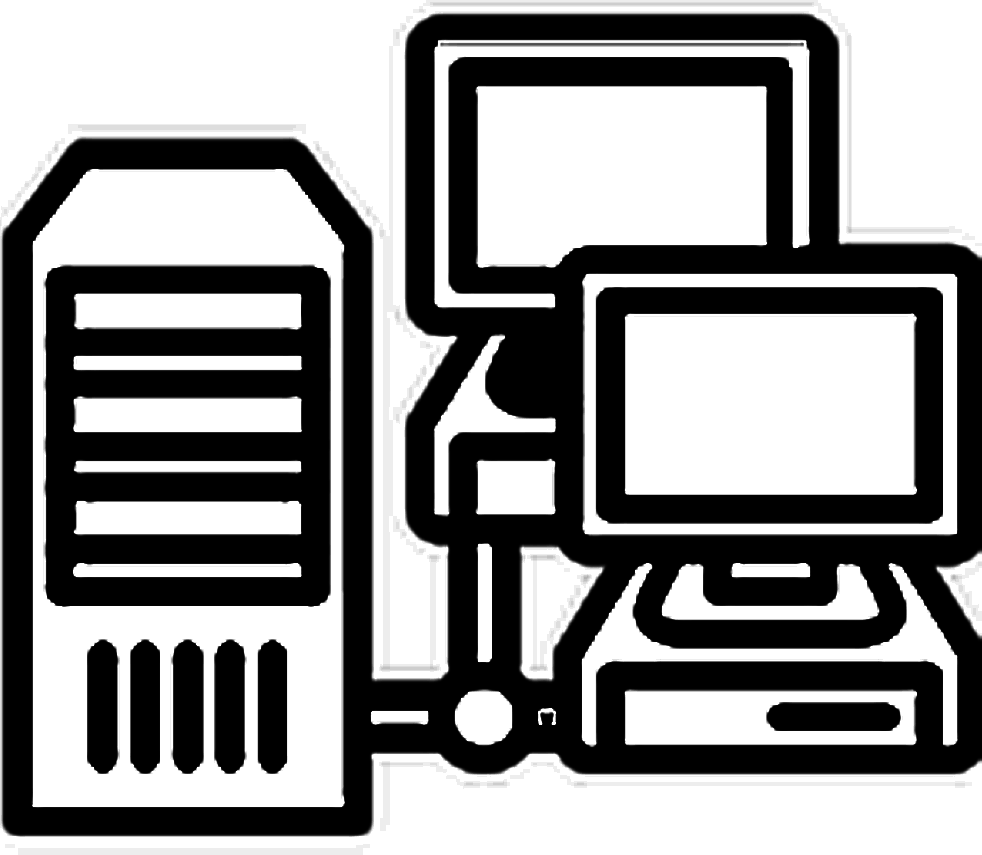
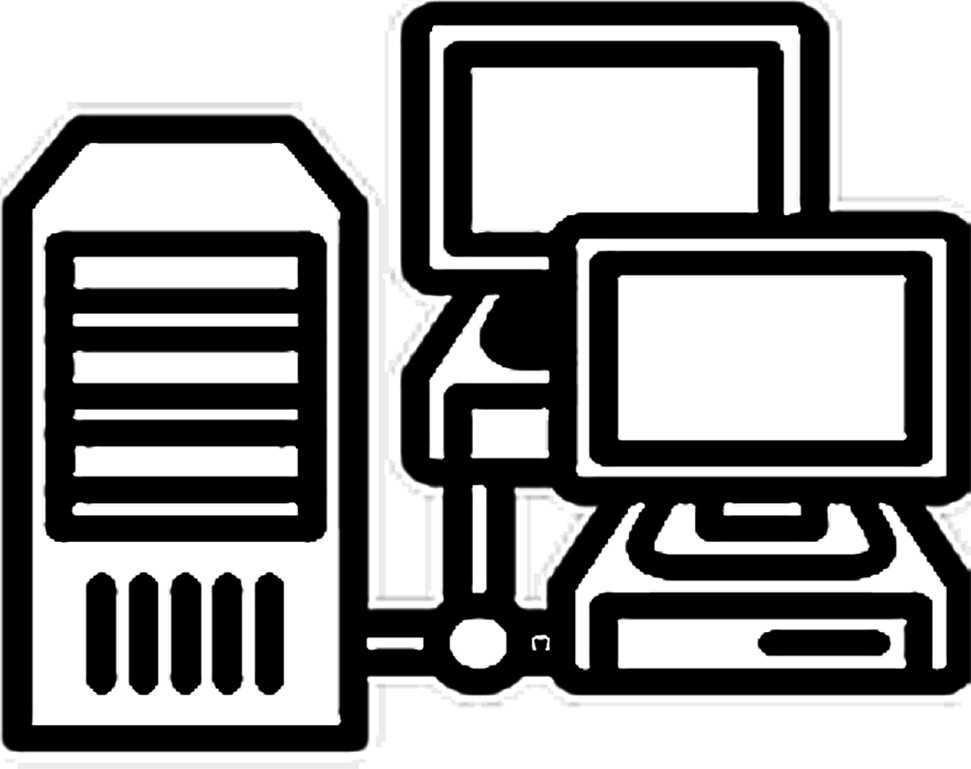
updated spacing

diff --git a/src/style.css b/src/style.css
@@ -182,7 +182,3 @@ a:hover {
 .spacer {
     margin-bottom: 50px;
 }
-
-.bigCont {
-    vertical-align: auto;
-}
